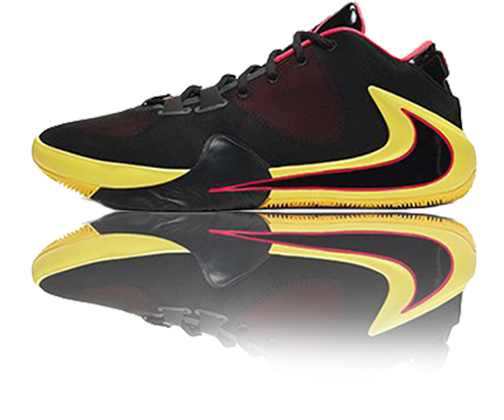
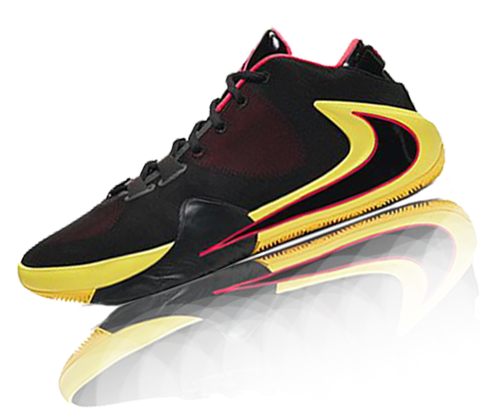
finished styling main section, cleaned files

diff --git a/Desktop_only/shoe_selling_website/css/styles.css b/Desktop_only/shoe_selling_website/css/styles.css
@@ -1,1 +1,1 @@
-@import url("https://fonts.googleapis.com/css?family=Audiowide|Roboto:400,700&display=swap");*,*::before,*::after{margin:0;padding:0;-webkit-box-sizing:border-box;box-sizing:border-box}body,html{font-size:10px;width:100%;height:100%}body{background-image:linear-gradient(-20deg, #030302 45%, transparent 45%, transparent 100%);font-family:Roboto, sans-serif}.container{width:75%;margin:0 auto;display:-webkit-box;display:-ms-flexbox;display:flex;-webkit-box-orient:vertical;-webkit-box-direction:normal;-ms-flex-direction:column;flex-direction:column;-webkit-box-pack:justify;-ms-flex-pack:justify;justify-content:space-between;min-height:100vh}ul{list-style-type:none}a{text-decoration:none;color:#9A9A9A}header{display:-webkit-box;display:-ms-flexbox;display:flex;-webkit-box-pack:justify;-ms-flex-pack:justify;justify-content:space-between;min-height:7.5rem}.brand{text-transform:uppercase;color:#ffffff;background:#030302;font-family:Audiowide, monospace;font-size:3.5rem;letter-spacing:0.1rem;text-align:center;padding:3rem 4rem;-ms-flex-item-align:end;align-self:flex-end;height:100%;width:35%}.main-nav{font-size:1.4rem;width:40%;display:-webkit-box;display:-ms-flexbox;display:flex;-webkit-box-orient:vertical;-webkit-box-direction:normal;-ms-flex-direction:column;flex-direction:column;-webkit-box-pack:justify;-ms-flex-pack:justify;justify-content:space-between;padding-top:2rem}.main-nav_list{display:-webkit-box;display:-ms-flexbox;display:flex;-webkit-box-align:center;-ms-flex-align:center;align-items:center;-webkit-box-pack:justify;-ms-flex-pack:justify;justify-content:space-between}.main-nav_search-field{border-bottom:1px solid #9A9A9A;margin-top:1rem}.main-nav_search-field input{outline:none;border:none;padding:0.7rem;padding-left:0;font-size:1.4rem;letter-spacing:0.1rem;width:95%}.main-nav_search-field input::-webkit-input-placeholder{color:#9A9A9A}.main-nav_search-field input:-ms-input-placeholder{color:#9A9A9A}.main-nav_search-field input::-ms-input-placeholder{color:#9A9A9A}.main-nav_search-field input::placeholder{color:#9A9A9A}.main-nav_search-field button{outline:none;border:none;height:100%;width:5%;background:transparent;cursor:pointer;float:right}.main-nav_search-field button img{width:1.8rem}.main-nav_list-item img{width:2rem}.main-nav_list-item a:hover{color:#030302}.shoe-pic{width:300px;height:250px;background-image:-webkit-gradient(linear, left top, left bottom, color-stop(65%, transparent), to(#030302)),url(../img/shoe_w_reflection.png);background-image:linear-gradient(to bottom, transparent 65%, #030302),url(../img/shoe_w_reflection.png);background-repeat:no-repeat;background-size:cover}.shoe-pic img{width:100%}
+@import url("https://fonts.googleapis.com/css?family=Audiowide|Roboto:400,900&display=swap");*,*::before,*::after{margin:0;padding:0;-webkit-box-sizing:border-box;box-sizing:border-box}body,html{font-size:10px;width:100%;height:100%}body{background-image:linear-gradient(-20deg, #030302 45%, transparent 45%, transparent 100%);font-family:Roboto, sans-serif}.container{width:75%;margin:0 auto;display:-webkit-box;display:-ms-flexbox;display:flex;-webkit-box-orient:vertical;-webkit-box-direction:normal;-ms-flex-direction:column;flex-direction:column;min-height:100vh}@media (max-width: 1300px){.container{width:90%}}@media (max-width: 1000px){.container{width:96%}}ul{list-style-type:none}a{text-decoration:none;color:#9A9A9A}header{display:-webkit-box;display:-ms-flexbox;display:flex;-webkit-box-pack:justify;-ms-flex-pack:justify;justify-content:space-between;min-height:7.5rem}.brand{text-transform:uppercase;color:#ffffff;background:#030302;font-family:Audiowide, monospace;font-size:3.5rem;letter-spacing:0.1rem;text-align:center;padding:3rem 4rem;-ms-flex-item-align:end;align-self:flex-end;height:100%;width:35%}.main-nav{font-size:1.4rem;width:40%;display:-webkit-box;display:-ms-flexbox;display:flex;-webkit-box-orient:vertical;-webkit-box-direction:normal;-ms-flex-direction:column;flex-direction:column;-webkit-box-pack:justify;-ms-flex-pack:justify;justify-content:space-between;padding-top:2rem}.main-nav_list{display:-webkit-box;display:-ms-flexbox;display:flex;-webkit-box-align:center;-ms-flex-align:center;align-items:center;-webkit-box-pack:justify;-ms-flex-pack:justify;justify-content:space-between}.main-nav_search-field{border-bottom:1px solid #9A9A9A;margin-top:1rem}.main-nav_search-field input{outline:none;border:none;padding:0.7rem;padding-left:0;font-size:1.4rem;letter-spacing:0.1rem;width:95%}.main-nav_search-field input::-webkit-input-placeholder{color:#9A9A9A}.main-nav_search-field input:-ms-input-placeholder{color:#9A9A9A}.main-nav_search-field input::-ms-input-placeholder{color:#9A9A9A}.main-nav_search-field input::placeholder{color:#9A9A9A}.main-nav_search-field button{outline:none;border:none;height:100%;width:5%;background:transparent;cursor:pointer;float:right}.main-nav_search-field button:active{-webkit-transform:translateY(1px) scale(0.98);transform:translateY(1px) scale(0.98)}.main-nav_search-field button img{width:1.8rem}.main-nav_list-item img{width:2rem}.main-nav_list-item img:active{-webkit-transform:translateY(1px) scale(0.98);transform:translateY(1px) scale(0.98)}.main-nav_list-item a:hover{color:#030302}.shoe-pic{width:300px;height:250px;background-image:url(../img/shoe_w_reflection.png);background-repeat:no-repeat;background-size:cover}.shoe-pic img{width:100%}main{display:-webkit-box;display:-ms-flexbox;display:flex;-webkit-box-pack:justify;-ms-flex-pack:justify;justify-content:space-between;min-height:calc(100vh - 11rem);-webkit-box-align:center;-ms-flex-align:center;align-items:center}.shoe-pic{-webkit-transform:scale(2.1) translateY(-3rem) translateX(-12rem);transform:scale(2.1) translateY(-3rem) translateX(-12rem)}@media (max-width: 1600px){.shoe-pic{-webkit-transform:scale(2) translateY(-3rem) translateX(-5rem);transform:scale(2) translateY(-3rem) translateX(-5rem)}}.heading{position:relative;display:-webkit-box;display:-ms-flexbox;display:flex;-webkit-box-orient:vertical;-webkit-box-direction:normal;-ms-flex-direction:column;flex-direction:column;-ms-flex-pack:distribute;justify-content:space-around;height:75vh}.heading h1{font-size:8rem;font-weight:900;width:7em;color:#333;line-height:0.9}.heading p{margin-top:-6em;font-size:1.6rem;width:20em;color:#333;line-height:1.5;letter-spacing:0.1rem}.cta-btn{background:#030302;color:#FDCC0D;font-size:1.8rem;outline:none;border:none;border-radius:5px;width:7em;display:-webkit-box;display:-ms-flexbox;display:flex;-webkit-box-align:center;-ms-flex-align:center;align-items:center;-webkit-box-pack:center;-ms-flex-pack:center;justify-content:center;height:3em;margin-bottom:15rem}.cta-btn:active{-webkit-transform:translateY(1px) scale(0.98);transform:translateY(1px) scale(0.98)}@media (max-width: 1300px){.cta-btn{margin-bottom:20rem}}.page-indicators{position:absolute;bottom:0;display:-webkit-box;display:-ms-flexbox;display:flex;width:20rem;-ms-flex-pack:distribute;justify-content:space-around}.page-indicators_item a{border-radius:50%;display:block;width:1rem;height:1rem;background:#cccccc}.page-indicators_item a.active{width:1.5rem;height:1.5rem;margin-top:-0.3rem;background:transparent;border:2px solid #ccc}

diff --git a/Desktop_only/shoe_selling_website/sass/_main.sass b/Desktop_only/shoe_selling_website/sass/_main.sass
@@ -1,8 +1,78 @@
 .shoe-pic      
     width: 300px    
     height: 250px
-    background-image: linear-gradient(to bottom,transparent 65%,$black),url(../img/shoe_w_reflection.png)
+    background-image: url(../img/shoe_w_reflection.png)
     background-repeat: no-repeat
     background-size: cover
     img
         width: 100%
+main
+  display: flex  
+  justify-content: space-between  
+  min-height: calc(100vh - 11rem)     
+  align-items: center
+  & > *
+
+.shoe-pic
+   transform: scale(2.1) translateY(-3rem) translateX(-12rem)
+
+@media (max-width:1600px)
+    .shoe-pic
+        transform: scale(2) translateY(-3rem) translateX(-5rem)
+.heading
+    position: relative
+    display: flex    
+    flex-direction: column
+    justify-content: space-around
+    height: 75vh
+    
+    h1       
+        font-size: 8rem
+        font-weight: 900        
+        width: 7em
+        color: #333
+        line-height: 0.9
+    p
+        margin-top: -6em
+        font-size: 1.6rem
+        width: 20em
+        color: #333
+        line-height: 1.5
+        letter-spacing: 0.1rem
+.cta-btn
+    background: $black  
+    color: $yellow
+    font-size: 1.8rem
+    outline: none
+    border: none
+    border-radius: 5px
+    width: 7em 
+    display: flex
+    align-items: center
+    justify-content: center
+    height: 3em
+    margin-bottom: 15rem
+    +activate
+@media (max-width:1300px)
+    .cta-btn
+        margin-bottom: 20rem
+.page-indicators 
+    position: absolute
+    bottom: 0
+    display: flex
+    width: 20rem
+    justify-content: space-around
+    &_item
+        a
+            border-radius: 50%
+            display: block
+            width: 1rem
+            height: 1rem            
+            background: #cccccc
+            &.active
+                width: 1.5rem
+                height: 1.5rem 
+                margin-top: -0.3rem
+                background: transparent
+                border: 2px solid #ccc
+

diff --git a/Desktop_only/shoe_selling_website/index.html b/Desktop_only/shoe_selling_website/index.html
@@ -9,7 +9,6 @@
 </head>
 <body>
     <div class="container">
-
         <header>
             <h3 class="brand">TRACTION</h3>
             <nav class="main-nav">
@@ -30,20 +29,18 @@
         <main>
             <article class="heading">
                 <h1>NEW-FLIGHT SPEED</h1>
-                <p>Basketball shoes: a new interpretation of the classic design of first class basketball shoes</p>
+                <p>Basketball shoes: a new interpretation of the classic design of first-class basketball shoes</p>
                 <a href="#!" class="cta-btn">Buy</a>
+                <ul class="page-indicators">
+                    <li class="page-indicators_item"><a class="active" href="#!"></a></li>
+                    <li class="page-indicators_item"><a href="#!"></a></li>
+                    <li class="page-indicators_item"><a href="#!"></a></li>
+                    <li class="page-indicators_item"><a href="#!"></a></li>
+                    <li class="page-indicators_item"><a href="#!"></a></li>
+                </ul>
             </article>
             <div class="shoe-pic"></div>
-            <ul class="page-indicators">
-                <li class="page-indicator_item"><a href="#!">*</a></li>
-                <li class="page-indicator_item"><a href="#!">*</a></li>
-                <li class="page-indicator_item"><a href="#!">*</a></li>
-                <li class="page-indicator_item"><a href="#!">*</a></li>
-                <li class="page-indicator_item"><a href="#!">*</a></li>
-            </ul>
         </main>
-
-    </div>
-    <script src="js/main.js"></script>
+    </div>   
 </body>
 </html>

diff --git a/Desktop_only/shoe_selling_website/sass/_general.sass b/Desktop_only/shoe_selling_website/sass/_general.sass
@@ -1,4 +1,4 @@
-@import url('https://fonts.googleapis.com/css?family=Audiowide|Roboto:400,700&display=swap')
+@import url('https://fonts.googleapis.com/css?family=Audiowide|Roboto:400,900&display=swap')
 *,*::before,*::after
   margin: 0
   padding: 0
@@ -14,12 +14,21 @@ body
   width: 75%
   margin: 0 auto
   display: flex
-  flex-direction: column
-  justify-content: space-between
+  flex-direction: column  
   min-height: 100vh
- 
+@media (max-width:1300px)
+    .container
+       width: 90%
+@media (max-width:1000px)
+    .container
+       width: 96%
 ul
   list-style-type: none
 a
   text-decoration: none
   color: $gray
+
+@mixin activate
+  &:active
+      transform: translateY(1px) scale(0.98)
+

diff --git a/Desktop_only/shoe_selling_website/sass/_header.sass b/Desktop_only/shoe_selling_website/sass/_header.sass
@@ -46,10 +46,12 @@ header
             background: transparent
             cursor: pointer
             float: right
+            +activate
             img
                 width: 1.8rem
-    &_list-item        
+    &_list-item  
         img
+            +activate      
             width: 2rem
         a:hover
             color: $black

diff --git a/Desktop_only/shoe_selling_website/sass/_variables.sass b/Desktop_only/shoe_selling_website/sass/_variables.sass
@@ -2,3 +2,4 @@ $black: #030302
 $yellow: #FDCC0D
 $gray: #9A9A9A
 $pale-brown: #D8CBA7
+$dark-brown: #5C4E2B

diff --git a/Desktop_only/shoe_selling_website/README.md b/Desktop_only/shoe_selling_website/README.md
@@ -1,1 +1,4 @@
 [Icons made by ](https://www.flaticon.com/authors/vectors-market) from [www.flaticon.com](https://www.flaticon.com/)
+
+
+Layout inspired by [Shoe selling website](https://dribbble.com/shots/10759516-Shoe-selling-website/attachments/2427809?mode=media)
